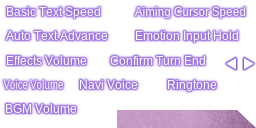
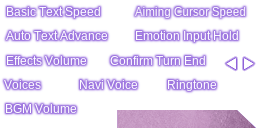
Phase 8: help bars laid out by label width, survey choice bar follows the box, status/report card fits (short cells, one name slot, Teacher, Earlier), name tabs, phone labels, All Map, Voices, report_card scene, status

Changed region(s): [[0.0, 0.5938, 0.2812, 0.7188]]

diff --git a/tools/engine.py b/tools/engine.py
@@ -20,8 +20,9 @@ NAME_XY = (8.0, 6.0)     # speaker name canvas (original 116, 8: right-hand colu
 TEXT_XY = (8.0, 28.0)    # dialogue line 0 canvas (original 84, 8)
 CAP_TEXT = (0.0, 32.0)    # location caption text (original 368, 32); insert.py right-aligns it to CAPTION_RIGHT
 CHOICE_PITCH = 20.0       # px between .ksf choice rows (original: columns 32 px apart)
-CHOICE_BAR_Y = 92.0       # choice cursor bar on row 0 (rows' text at y 89 + CHOICE_PITCH * i); fill drawn y-6..y+h+6
+CHOICE_BAR_DY = 3         # choice cursor bar y on row 0 = rows' y0 (89 in a dialogue choice) + 3; fill y-6..y+h+6
 CHOICE_BAR_H = 10.0
+NAME_TAB_X = 7.0
 
 
 def hi(f):
@@ -78,10 +79,24 @@ def patch(p: Patcher):
     # 0x15-0x17, middle stretched h/40) that can't lie flat: draw only the fill
     # (keystone rejects absolute branch targets this high, and pads `b` with a nop: encode beq $0, $0 by hand)
     p.asm(0x089FE9FC, f".word {0x10000000 | (0x089FEB50 - 0x089FEA00) >> 2:#x}", [0x2402FF8C])
-    # per frame (0x089F0A1C) target x = 116 - 32 * sel -> target y = CHOICE_BAR_Y + CHOICE_PITCH * sel
-    p.asm(0x089F0A1C, f"lui $at, {hi(CHOICE_BAR_Y):#x}", [0x3C0142E8])
-    p.asm(0x089F0A38, f"lui $at, {hi(CHOICE_PITCH):#x}", [0x3C01C200])
+    # per frame (0x089F0A1C) target x = 116 - 32 * sel -> target y = box y + CHOICE_BAR_DY + CHOICE_PITCH * sel. The
+    # box y (0x089F04B0's v1, the rows' y0) sits at 0x14($sp); a fixed y 92 missed the survey choice (rows at y ~33).
+    assert CHOICE_PITCH == 20.0
+    p.asm(0x089F0A1C, "lwc1 $f2, 0x14($sp); lbu $v0, 0x39ec($v0); lw $a0, 0xa8($v1); sll $t0, $v0, 4;"
+          f"sll $v0, $v0, 2; addu $v0, $v0, $t0; addiu $v0, $v0, {CHOICE_BAR_DY}; mtc1 $v0, $f1; cvt.s.w $f0, $f1;"
+          "move $a1, $sp; add.s $f0, $f0, $f2",
+          [0x3C0142E8, 0x44811000, 0x90420000 | 0x39EC, 0x8C640000 | 0xA8, 0x03A02821, 0x44820800, 0x46800820,
+           0x3C01C200, 0x44810800, 0x46010002, 0x46020000])
     p.asm(0x089F0A4C, "swc1 $f0, 4($sp)", [0xE7A00000])
+    # name entry mode tabs (Hira/Kata/ABC, eboot 2b1518..): drawn at x 10.0 (0x0883A500), the unselected tab is ~31 px
+    # wide from x 9, so "Kata"/"ABC" (32 px) lost their last letter: x NAME_TAB_X
+    p.asm(0x0883A500, f"lui $at, {hi(NAME_TAB_X):#x}", [0x3C014120])
+    # phone Profile Book submenu labels (Locked/Profile/Report Card) at x 294.0: "Report Card" touched the bezel (~374)
+    for site in (0x0893D38C, 0x0893D5E4, 0x0893D660, 0x0893D6C8):
+        p.asm(site, f"lui $at, {hi(290.0):#x}", [0x3C014393])
+    # school/city map help bar "✕ Back ○ OK": Back at x 392.0 ran into the ○ icon (~425): x 388 (✕ ends ~386)
+    for site in (0x08952650, 0x08952A68):
+        p.asm(site, f"lui $at, {hi(388.0):#x}", [0x3C0143C4])
     choice_bar_px(p)
     menu_right(p)
     hud_name(p)
@@ -89,6 +104,7 @@ def patch(p: Patcher):
     status_name(p)
     ticker(p)
     phone_settings(p)
+    help_bars(p)
     # choice keys: LEFT (0x80) = next, RIGHT (0x20) = previous -> DOWN (0x40), UP (0x10)
     p.asm(0x089F2A10, "andi $v0, $v0, 0x40", [0x30420080])
     p.asm(0x089F2A2C, "andi $v0, $v0, 0x10", [0x30420020])
@@ -296,9 +312,10 @@ here:
 STATUS_CELLS = [
     (0x0892B940, "Stats", 5, 61), (0x0892B964, "Value", 64, 116), (0x0892B9AC, "Subject", 249, 306),
     (0x0892B9D0, "Grade", 309, 360),
-    (0x0892BBEC, "Stamina", 5, 61), (0x0892BC10, "Reflexes", 5, 61), (0x0892BC34, "Willpower", 5, 61),
-    (0x0892BC58, "Speed", 5, 61), (0x0892BC7C, "Judgment", 5, 61),
-    (0x0892BCAC, "Japanese", 249, 306), (0x0892BCD0, "Math", 249, 306), (0x0892BCF4, "Languages", 249, 306),
+    # cells drawn from 16 px frame tiles by code (no layout found to widen): short forms, full names in fit-queue
+    (0x0892BBEC, "Stamina", 5, 61), (0x0892BC10, "Reflex", 5, 61), (0x0892BC34, "Will", 5, 61),
+    (0x0892BC58, "Speed", 5, 61), (0x0892BC7C, "Judgmt", 5, 61),
+    (0x0892BCAC, "Jpn.", 249, 306), (0x0892BCD0, "Math", 249, 306), (0x0892BCF4, "Lang.", 249, 306),
     (0x0892BD18, "P.E.", 249, 306), (0x0892BD3C, "Social St.", 249, 306), (0x0892BD60, "Health", 249, 306),
     (0x0892BD84, "Biology", 249, 306),
     # top-right box: labels left of the values' divider (~x 378); JP centred ~x 316
@@ -328,6 +345,8 @@ def status_labels(p):
         old = struct.unpack_from("<I", p.d, o)[0]
         assert old >> 16 == 0x2405, hex(old)
         x = max(left + 1, (left + right - sum(w[ord(c)] for c in en)) // 2)
+        # guard only: "Social St." (64 px by the table, 57 px cell) shows clear of the divider, "Willpower" (68) did not
+        assert sum(w[ord(c)] for c in en) <= right - left + 7, f"status label {en!r} wider than its cell"
         p.asm(site, f"addiu $a1, $zero, {x}", [old])
     for site, x0, x in STATUS_LEFT:
         p.asm(site, f"addiu $a1, $zero, {x}", [0x24050000 | x0])
@@ -343,6 +362,7 @@ def status_labels(p):
 # "given surname" (D1) from x 80 (stub: sprintf into a buffer in the added segment), the second slot an empty string.
 SURNAME, GIVEN, SPRINTF = 0x089D3AB8, 0x089D3A84, 0x08A82800
 NAME_X = 80
+REPORT_NAME_X = 324  # report card Name row, "Name" label off screen (box inside x ~319-471)
 OFFSCREEN = 600
 FULLNAME = """
     move $t8, $ra
@@ -352,13 +372,14 @@ here:
     sw $t8, 0($sp)
     sw $s0, 4($sp)
     sw $s1, 8($sp)
+    sw $a0, 12($sp)
     move $s0, $ra
     lui $t5, {sur_hi}
     ori $t5, $t5, {sur_lo}
     addu $t5, $s0, $t5
     jalr $t5
     move $s1, $v0
-    ori $a0, $zero, 0x8000
+    lw $a0, 12($sp)
     lui $t5, {giv_hi}
     ori $t5, $t5, {giv_lo}
     addu $t5, $s0, $t5
@@ -410,6 +431,22 @@ def status_name(p):
     p.asm(0x0892CFB8, f"addiu $a1, $zero, {OFFSCREEN}", [0x24050072])
     p.asm(0x0892CFDC, f"addiu $a1, $zero, {OFFSCREEN}", [0x240500AF])
     p.asm(0x0892B7F4, f"addiu $a1, $zero, {OFFSCREEN}", [0x24050050])
+    # the same box rebuilt for the shown character (L/R, report card): 0x0892DBCC..0x0892DC78, a0 = character id
+    jal_to(p, 0x0892DC2C, SURNAME, va)
+    jal_to(p, 0x0892DC5C, GIVEN, va + 0xC0)
+    p.asm(0x0892DC38, f"addiu $a1, $zero, {NAME_X}", [0x24050075])
+    p.asm(0x0892DBD8, f"addiu $a1, $zero, {OFFSCREEN}", [0x24050072])
+    p.asm(0x0892DC04, f"addiu $a1, $zero, {OFFSCREEN}", [0x240500AF])
+    # report card page Name row: surname at (381, 41), given at (427, 41) overprinted; whole name from REPORT_NAME_X
+    # (player 0x0892D660.., shown character 0x0892DED4..). Teacher row value x 381 touched the "Teacher" label.
+    for sur, giv, xsite in ((0x0892D660, 0x0892D684, 0x0892D66C), (0x0892DED4, 0x0892DEFC, 0x0892DEE0)):
+        jal_to(p, sur, SURNAME, va)
+        jal_to(p, giv, GIVEN, va + 0xC0)
+        p.asm(xsite, f"addiu $a1, $zero, {REPORT_NAME_X}", [0x2405017D])
+    p.asm(0x0892D768, "addiu $a1, $zero, 377", [0x2405017D])
+    # Club/Teacher labels x 323 -> 320 (box inside from ~319); the "Name" label goes (the full name needs the row)
+    for site, x in ((0x0892BE60, OFFSCREEN), (0x0892BE84, 320), (0x0892BEA8, 320)):
+        p.asm(site, f"addiu $a1, $zero, {x}", [0x24050143])
 
 
 def hud_name(p):
@@ -459,6 +496,52 @@ def phone_settings(p):
     new = struct.pack("<20h", *rows)
     p.d[o:o + 40] = new
     p.log.append((o, old, new, f"{PHONE_ROWS:08x} phone settings value x (start, gap) per row"))
+
+
+# Menu help bars: 0x089D0850(bar, slot, x, y) places a slot (button icon at x+2..x+13, label from x+16), 0x089D086C(bar,
+# slot, systemtext row) sets its label; each menu lays its slots out with immediates (`addiu $a2, $zero, x`).
+# English labels ran under the next icon (cards "Remove Range", equip). Each bar keeps its rightmost slot and moves
+# the others left just enough for the widest label the slot can show (rows from the T calls after the bar's P calls).
+# Bars: (site of the x immediate, original x, labels) in x order.
+HELP_GAP = 16 + 3
+HELP_BARS = [
+    [(0x089BADB8, 252, ["Remove"]), (0x089BADEC, 300, ["Range", "Details"]), (0x089BAE20, 352, ["Back"]),
+     (0x089BAE54, 402, ["Select"])],  # cards
+    [(0x089C0044, 252, ["Remove"]), (0x089C0078, 307, ["Details", "Range"]), (0x089C00AC, 358, ["Back"]),
+     (0x089C00E0, 408, ["Select", "OK"])],  # equip
+    [(0x089C6B40, 252, ["Remove", "Take All"]), (0x089C6B74, 313, ["Details"]), (0x089C6BA8, 360, ["Back"]),
+     (0x089C6BDC, 406, ["Get"])],
+    [(0x089CDDE0, 268, ["Details", "Weapon", "Armor", "Gear Details", "Enhance Effect"]),
+     (0x089CDE18, 348, ["Back"]), (0x089CDDFC, 398, ["Select", "OK"])],
+]
+HELP_LEFT = 20 + HELP_GAP + 61  # end of the "Category" label in the SELECT slot at x 20 (32 in equip)
+
+
+def help_layout(xs, widths):
+    """New x per slot: the last stays, each other ends its label HELP_GAP before the next icon, never moves right."""
+    out = list(xs)
+    for k in range(len(xs) - 2, -1, -1):
+        out[k] = min(xs[k], out[k + 1] - HELP_GAP - widths[k])
+    return out
+
+
+assert help_layout([252, 300, 352, 402], [55, 47, 34, 41]) == [209, 283, 349, 402]
+
+
+def help_bars(p):
+    import insert
+    import json
+    w = insert.font_widths("advfont14")
+    st = Path(__file__).resolve().parents[1] / "script" / "tables" / "systemtext.json"
+    ens = {e.get("en") for e in json.loads(st.read_text(encoding="utf-8"))}
+    for bar in HELP_BARS:
+        for _, _, labels in bar:
+            assert set(labels) <= ens, f"help label {labels} is no longer a systemtext string: update HELP_BARS"
+        xs = help_layout([x for _, x, _ in bar], [max(sum(w[ord(c)] for c in s) for s in ls) for _, _, ls in bar])
+        assert xs[0] >= HELP_LEFT, (bar, xs)
+        for (site, x0, _), x in zip(bar, xs):
+            if x != x0:
+                p.asm(site, f"addiu $a2, $zero, {x}", [0x24060000 | x0])
 
 
 if __name__ == "__main__":

diff --git a/tools/gfx_menus.py b/tools/gfx_menus.py
@@ -207,8 +207,9 @@ def ui_lsmap01():
 def ui_map04():
     a = Atlas("system/_ui_map.pak/system/ui_map04.gim")
     # left tab strip: the game stacks 24px cells top to bottom (offsets from ui_map.g2d)
-    a.stack([(0, 0, 24, 24), (0, 24, 24, 24)], "All", size=15)                             # 全 体
-    a.stack([(0, 48, 24, 16, 0), (24, 48, 16, 16, 8), (25, 0, 23, 24, 1)], "Map", size=15)  # マ ッ プ
+    # one caption "All Map": All ends at the bottom of its stack, Map starts at the top of the next (was a wide gap)
+    a.stack([(0, 0, 24, 24), (0, 24, 24, 24)], "All", size=15, align="r")                  # 全 体
+    a.stack([(0, 48, 24, 16, 0), (24, 48, 16, 16, 8), (25, 0, 23, 24, 1)], "Map", size=15, align="l")  # マ ッ プ
     # 24px cells hold two short lines (a 6-letter word rotated would need ~45px)
     for cell, word in [((48, 0, 24, 24), "Spr\ning"), ((48, 25, 24, 23), "Sum\nmer"),
                        ((72, 0, 24, 24), "Aut\numn"), ((72, 25, 24, 23), "Win\nter")]:  # 春 夏 秋 冬

diff --git a/tools/gfx_phone.py b/tools/gfx_phone.py
@@ -137,7 +137,7 @@ def set_():
             (4, 5, 112, "Basic Text Speed"), (133, 5, 112, "Aiming Cursor Speed"),
             (4, 29, 112, "Auto Text Advance"), (133, 29, 112, "Emotion Input Hold"),
             (4, 54, 90, "Effects Volume"), (108, 54, 98, "Confirm Turn End"),   # boxes inside the g2d cells
-            (2, 78, 60, "Voice Volume"), (77, 78, 70, "Navi Voice"), (165, 78, 82, "Ringtone"),
+            (2, 78, 60, "Voices"), (77, 78, 70, "Navi Voice"), (165, 78, 82, "Ringtone"),
             (3, 102, 84, "BGM Volume")):
         xs = min(1.0, w / typeset.font(SANS, 12).getlength(text))
         paint(img, rects, (x, y, w, 14), text, SANS, 12, halo=halo, xs=xs, pad=4, radius=1, strength=1.5)

diff --git a/docs/qa-findings.md b/docs/qa-findings.md
@@ -151,6 +151,10 @@ One line per distinct problem; sheets named are examples. Tick when fixed and re
 ## Re-tour of 915f3c67 (worker 10 visual QA, verdicts work/qa/verdicts/chunk_bfd6e685d291_*.tsv)
 - [ ] Dungeon loading indicator (dun1_direct f002260-f002290, dun_tut f002260-f002350): 読み込み中 on red diamonds,
   bottom right. Not the ui_loading.gim "Loading..." strip (that one was redrawn): another sprite/atlas.
+  Worker 12: ui_loading.g2d does hold the diamonds (8 cells) + the strip prefixes 8,80 x 24..136 the game reveals one
+  char per diamond, and the redraw is in gfx/out, yet the dungeon shows 読み込み中: a second copy with other bytes
+  (`gimfind.py ui_loading.gim 8,80,136,24` found nothing; try the alpha mode / per-char 24x24 cells, or fileopen.py
+  on a dun_tut state to see which pak the dungeon loads).
 - [ ] City map destination list (city_map f000306) right-aligned: "Karasu no Mori Academy", "Karasuba Shrine",
   "Yahiro Academy", "Shinjuku Police" run left past the red panel border (x~378) onto the map.
   Same on the **school map room list** (field_ch01 sheets 33-55, f017770/f019570/f026170): "Audiovisual Room",
@@ -166,14 +170,20 @@ One line per distinct problem; sheets named are examples. Tick when fixed and re
   Infirmary, Broadcasting, Custodian, Dojo, Guidance, Chem Lab, PC Lab, Home Ec., Principal, Librarian, Square Club,
   AV Room, Council Room...), full names in fit-queue; `batches.py check` fails a list name over 97 px. Verify next tour.
 - [x] Field help bar "End Roaming△Look": no gap before △ (fend_c1 f000066/f000102). Worker 11: "End Roam" (74 px, JP 84).
-- [ ] Name entry (name_entry f003430, chunk 036): mode tabs "Kata"/"ABC" lose their last letter at the tab's right
+- [~] Name entry (name_entry f003430, chunk 036; worker 12: tabs fixed, engine.NAME_TAB_X 10 -> 7, w12/name_entry; the
+  typed-chars-after-default-name field limit still open): mode tabs "Kata"/"ABC" lose their last letter at the tab's right
   edge (カナ/英数 fit). Typed chars after the default "Shichidai" start at x~310, ~2 fit before the field edge x~340
   (JP 七代ああああああ fits): the field width counts the default name's bytes/cells; only seen when typing after the
   default name (players usually clear it). Check the field's max chars vs the 9-letter default.
-- [ ] Survey choice (choice_pre f008230/f008260, chunk 024): options "Remember the survey" / "Don't remember the
+- [x] Survey choice (choice_pre f008230/f008260, chunk 024; worker 12: bar y = the box's own y0 (0x14($sp) of the
+  per-frame code) + CHOICE_BAR_DY instead of a fixed 92, w12/choice_pre f008230 on row 0): options "Remember the survey" / "Don't remember the
   survey" at y~36/56 but the red cursor bar at y~86-106, on neither row (the Shake hands choice is right). JP tour
   has no frame of it (shot every 90): re-shoot JP choice_pre around f008200-f008330 with --shot-every 30 first.
-- [ ] Status page (field_ch01 f007060/f007090) still: Judgment into the Value column, Willpower/Reflexes/Stamina
+- [x] Status page (field_ch01 f007060/f007090; worker 12, w12/report + report_card: grid cells are 16 px frame tiles
+  placed by code (no layout found; the t1 label type 1/2 is no font size), so status-cell short forms Reflex/Will/
+  Judgmt/Jpn./Lang. (fit-queue, glossary alternates; engine asserts a label fits); report card Name row = one
+  "given surname" string from x 324 (FULLNAME stub, "Name" label off screen) for both builders, Teacher (was
+  Homeroom), Activity Log "Earlier" (was "Before Last"); Teacher value still tight to its label) still: Judgment into the Value column, Willpower/Reflexes/Stamina
   touch ▲, Japanese/Languages into the Grade column, ▼ on the Summary border, "Summary" header right-aligned.
   Report card (f007120/f007150): "Kazuki" over "Shichidai" (surname first), "Homeroom" over "Asako Hatori",
   Activity Log "Before" row shows "Last" and the "Last" row is empty. Worker 10: **confirmed on a fresh cold boot**
@@ -185,11 +195,13 @@ One line per distinct problem; sheets named are examples. Tick when fixed and re
   (divider 61 -> ~80) and move STATUS_VALUES x 89 -> ~96.
 - [x] Shop help bar "○ Confirm" ran off screen (shop f002260): questshoptext:0013 決定 -> "OK" like the other bars
   (worker 10; re-check in the next tour).
-- [ ] Phone Profile Book submenu "Report Card" touches the bezel (phone_prof f000236).
-- [ ] Phone settings "Voice Volume" drawn condensed vs the other labels (phone_set f000420; its k_phon_set.g2d
+- [x] Phone Profile Book submenu "Report Card" touches the bezel (phone_prof f000236). Worker 12: labels x 294 -> 290.
+- [x] Phone settings "Voices" (worker 12, was "Voice Volume") drawn condensed vs the other labels (phone_set f000420; its k_phon_set.g2d
   cell is x 0-63, worker 7).
-- [ ] Map "All Map" sideways label: gap between the words and a stray pixel line above "Map" (map f000390).
-- [ ] Help bars: cards "□Armor Effect" under ✕ (menu_cards f000344); equip "△Remove □Range" under □/✕
+- [x] Map "All Map" sideways label: gap between the words and a stray pixel line above "Map" (map f000390). Worker
+  12: All bottom-aligned, Map top-aligned (w12/map); map bar Back x 392 -> 388.
+- [x] Help bars (worker 12: `engine.help_bars` moves each menu bar's slots left by the widest label a slot shows;
+  0x089D0850 places a slot, 0x089D086C sets its systemtext row; w12/menu_equip, menu_cards all clear): cards "□Armor Effect" under ✕ (menu_cards f000344); equip "△Remove □Range" under □/✕
   (menu_equip f000298); map bar "Back" touching ○. Fixed icon slots (qa-findings §Help bar): shorter words or
   engine layout by width.
 - [x] Item menu "View Valuables": last s cut by the green divider at x~247 (menu_item f000252). Worker 11:

diff --git a/docs/status.md b/docs/status.md
@@ -3,7 +3,20 @@
 Updated at the end of every session. Keep it to what the next session needs; history is in git.
 
 - **Phase:** 8. QA in the emulator, in progress (visual QA of the 915f3c67 tour complete: 338/338 sheets have a
-  verdict, 234 ok / 102 issue; fixes then a re-tour of the current build next; phase 7 done 2026-11-24).
+  verdict, 234 ok / 102 issue; worker 12 fixed most §Re-tour items; a few fixes left, then a re-tour of the current
+  build; phase 7 done 2026-11-24).
+- **Phase 8, worker 12 (2026-11-24, stopped near the context limit):** qa-findings §Re-tour items fixed, each checked
+  in a cold-boot warp (`work/qa/warp/w12/`, tag w12): (1) **help bars** laid out by label width (`engine.help_bars`,
+  HELP_BARS: equip/cards/item-get/card-effect bars; equip now "△Remove □Range ✕Back ○Select"); map bar Back x 388.
+  (2) **Survey choice bar** follows the box y (CHOICE_BAR_DY). (3) **Status page** short cell forms Reflex/Will/
+  Judgmt/Jpn./Lang. (D16 last resort: grid cells are code-placed frame tiles; fit-queue + glossary alternates).
+  (4) **Report card**: whole name in one slot (FULLNAME stub now keeps a0 = character id; also on L/R switch),
+  Teacher, Activity Log "Earlier". (5) Name entry tabs x 7, phone Profile labels x 290, "Voices", "All Map" caption.
+  New scene `report_card`. Build `build/karasu_en.iso` sha1 6f24b0e9, check green (26), smoke ok.
+- **Next (phase 8, worker 13+):** (a) left in qa-findings §Re-tour: dungeon 読み込み中 loader (notes there), name-entry
+  field after the default name, readability over bright lights, Teacher value tight on the report card. (b) Credits
+  movies (pmf.py swap; staff names need a romanised list). (c) Then re-tour (`warp.py --all --tag en`, delete
+  work/states/en/ first), `tools/tour_sheets.py`, visual QA of the new manifest, stress saves, textcover.
 - **Phase 8, worker 11 (2026-11-24):** (1) **Visual QA chunks 018-041** done by `translate-retro-game:visual-qa`
   agents (`qa_gate.py todo`: 0 of 338 without a verdict). New items in qa-findings §Re-tour: survey choice cursor bar
   off its rows (choice_pre f008230), name entry tabs "Kata"/"ABC" clipped + typed chars after the default name run
@@ -13,7 +26,7 @@ Updated at the end of every session. Keep it to what the next session needs; his
   alternates, `batches.py check` fails a list name over 97 px); verified in cold-boot warps `work/qa/warp/w11/
   city_map`, `field_rooms`. (3) Help bars: "End Roam" (gap before △), "Valuables", cards "Weapon"/"Armor". Build
   `build/karasu_en.iso` sha1 fb69132c.
-- **Next (phase 8, worker 12+):** (a) remaining qa-findings §Re-tour items: status page/report card (name stubs,
+- **Old next (worker 12; (a) mostly done):** (a) remaining qa-findings §Re-tour items: status page/report card (name stubs,
   Homeroom, stat label column), dungeon 読み込み中 loader sprite, equip help bar (Remove/Range in 28-42 px slots:
   engine layout by width), survey choice bar, name entry tabs/field, phone "Report Card" bezel, Voice Volume label,
   All Map label, readability. (b) Credits movies (pmf.py swap; staff names need a romanised list). (c) Then re-tour

diff --git a/glossary.md b/glossary.md
@@ -141,11 +141,11 @@ separates alternatives) and the Avoid column.
 | 隠者の杖 | Hermit's Staff | | | |
 | 秘儀を伝授されし者 | Initiate | | ruby イニシエ | |
 | 体力 | Stamina | | stat | Vitality |
-| 瞬発力 | Reflexes | | stat | |
-| 精神力 | Willpower | | stat | Spirit |
+| 瞬発力 | Reflexes / Reflex | | stat; "Reflex" only systemtext:0388 (status page cell, 56 px, fit-queue) | |
+| 精神力 | Willpower / Will | | stat; "Will" only systemtext:0389 (status page cell, fit-queue) | Spirit |
 | 脚力 | Speed | | stat | Footwork |
-| 判断力 | Judgment | | stat | |
-| 外国語 | Languages | | school subject | Foreign Language |
+| 判断力 | Judgment / Judgmt | | stat; "Judgmt" only systemtext:0391 (status page cell, fit-queue) | |
+| 外国語 | Languages / Lang. | | school subject; "Lang." only systemtext:0071 (status page cell + Forte, fit-queue) | Foreign Language |
 | 現代社会 | Social Studies / Soc.St / Social St. | | school subject; "Soc.St" only in item:0326-0328:10 stat lines (24b, fit-queue); "Social St." = systemtext:0070 (status page subject cell, 56 px) | Modern Society |
 | 麻痺 | Paralysis | | ailment | Paralyze |
 | 悪寒 | Chills | | ailment | |
